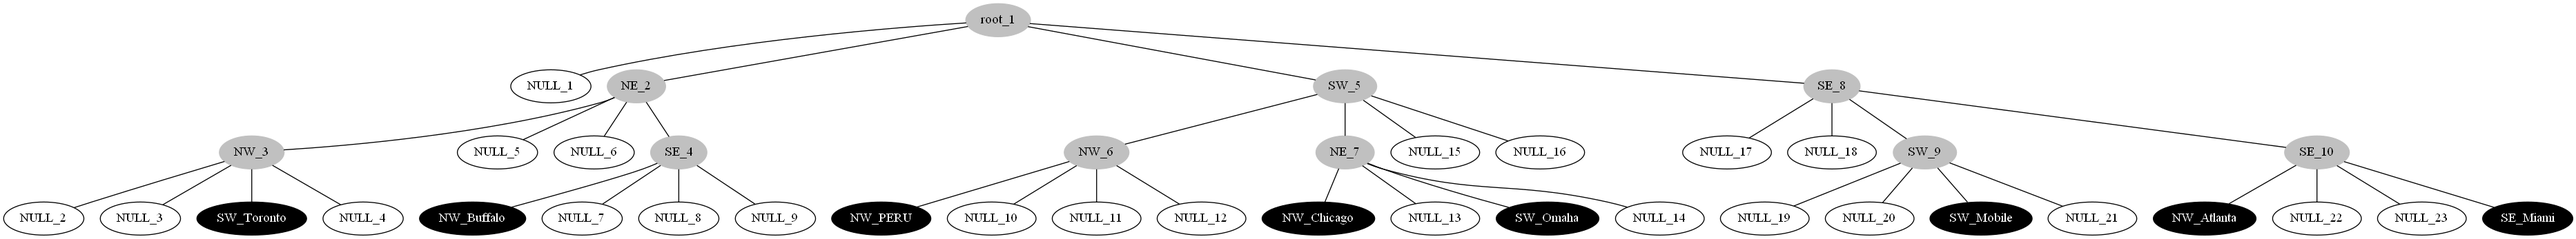
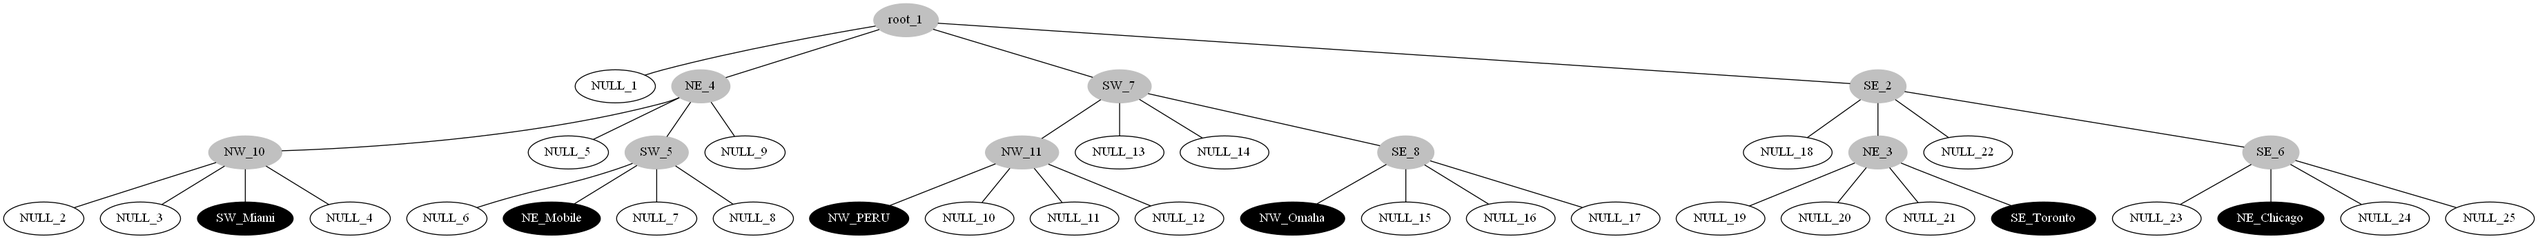
Cambios Finales

diff --git a/main.cpp b/main.cpp
@@ -1,37 +1,36 @@
-#include <iostream>
+#include <bits/stdc++.h>
 #include "mx_quadtree.h"
+#define coord pair<int,int>
 using namespace std;
 
 int main()
 {
-    int W = 8;
+    int W = 160;
+    srand(time(NULL));
     MX_QuadTree<string> tree(8);
-    tree.insert(4,6,"Toronto");
-    // tree.graphic("punto1.dot");
-    tree.insert(6,5,"Buffalo");
-    // tree.graphic("punto2.dot");
-    tree.insert(0,3,"Denver");
-    // tree.graphic("punto3.dot");
-    tree.insert(2,3,"Chicago");
-    // tree.graphic("punto4.dot");
-    tree.insert(2,2,"Omaha");
-    // tree.graphic("punto5.dot");
-    tree.insert(4,0,"Mobile");
-    // tree.graphic("punto6.dot");
-    tree.insert(6,1,"Atlanta");
-    // tree.graphic("punto7.dot");
-    tree.insert(7,0,"Miami");
-    // tree.graphic("punto8.dot");
-    if(tree.search(7,5, "Miami"))   
-    {    
-        cout << "Encontrado.\n";
+    unordered_map<string, coord> locs;
+    vector<string> cities = {"Toronto","Buffalo","Denver","Chicago","Omaha","Mobile","Atlanta", "Miami"};
+    for(int i = 0; i < 8; ++i){
+        int x = 1 + rand() % 8;
+        int y = 1 + rand() % 8;
+        tree.insert(x,y,cities[i]);
+        locs[cities[i]] = {x,y};
     }
-    else
-        cout << "No encontrado.\n";
-    tree.postOrden();
-    cout<<tree.size()<<'\n';
+
+    int asserts = 0;
+    for(auto aux : locs){
+        int val = tree.search(aux.second.first , aux.second.second , aux.first);
+        if(val)
+            printf("%s se encuentra en el arbol, x = %d , y = %d\n", aux.first, aux.second.first, aux.second.second);
+        else
+            printf("%s no se encuentra en el arbol, x = %d , y = %d\n", aux.first, aux.second.first, aux.second.second);
+        asserts += val;
+    }
+    printf("Numero de coincidencias: %d.\n", asserts);
+    printf("Tamanio del arbol: %d.\n" , tree.size());
     tree.graphic("mx_quadtree1.dot");
     tree.insert(0,3,"PERU");
-    tree.postOrden();
+    tree.erase(locs["Atlanta"].first , locs["Atlanta"].second);
+    tree.erase(locs["Buffalo"].first , locs["Buffalo"].second);
     tree.graphic("mx_quadtree2.dot");
 }

diff --git a/mx_quadtree.h b/mx_quadtree.h
@@ -71,12 +71,11 @@ void MX_QuadTree<T>::insert(int x, int y, T value)
     {
         root = new Node<T>("gray", "root");
         root->name = std::to_string(nodo_name++);
-        return;
     }
     Node<T>* tmp = root;
     int _W = W/2;
     std::string Q = MX_compare(x,y,_W);
-    while(_W>1)
+    while(_W>10)
     {
         // std::cout<<value<<"-> "<<Q<<'\n';
         if(Q=="NW" && !tmp->NW)
@@ -195,13 +194,18 @@ bool MX_QuadTree<T>::search(int x, int y, T val)
         }
         Q = MX_compare(x, y, _W);
         if(Q == "NW")
-            return tmp->NW->value == val;
+            if(tmp->NW)
+                return tmp->NW->value == val;
         if(Q == "NE")
-            return tmp->NE->value == val;
+            if(tmp->NE)
+                return tmp->NE->value == val;
         if(Q == "SE")
-            return tmp->SE->value == val;
+            if(tmp->SE)
+                return tmp->SE->value == val;
         if(Q == "SW")
-            return tmp->SW->value == val;
+            if(tmp->SW)
+                return tmp->SW->value == val;
+        return false;
     }
 }
 
@@ -210,7 +214,6 @@ void MX_QuadTree<T>::erase(int x, int y) {
     if(!root) return;
     else {
         if(W == 1) {
-            //returntoavail
             root = nullptr;
         }
     }

diff --git a/main2.cpp b/main2.cpp
@@ -1,0 +1,27 @@
+#include <iostream>
+#include "mx_quadtree.h"
+using namespace std;
+
+int main()
+{
+    int W = 160;
+    MX_QuadTree<string> tree(W);
+    tree.insert(55,32,"Toronto");
+    tree.insert(138,15,"Buffalo");
+    tree.insert(11,51,"Denver");
+    tree.insert(19,102,"Chicago");
+    tree.insert(69,85,"Omaha");
+    tree.insert(96,141,"Mobile");
+    tree.insert(112,85,"Atlanta");
+    tree.insert(152,86,"Miami");
+    if(tree.search(7,0, "Miami"))   
+    {    
+        cout << "Encontrado.\n";
+    }
+    else
+        cout << "No encontrado.\n";
+    cout<<tree.size()<<'\n';
+    tree.graphic("mx_quadtree1.dot");
+    //tree.insert(0,3,"PERU");
+    //tree.graphic("mx_quadtree2.dot");
+}
